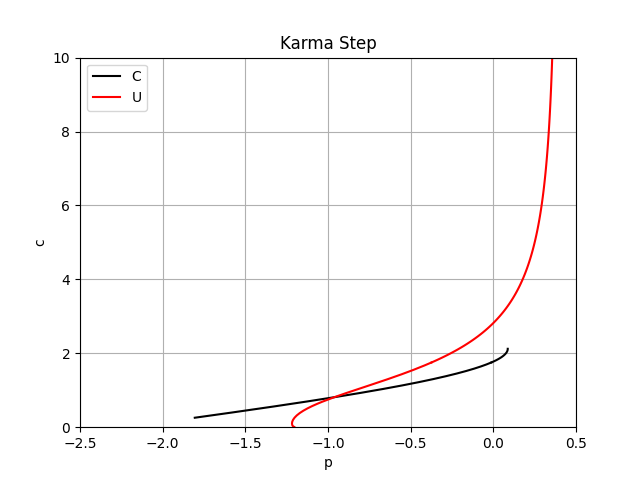
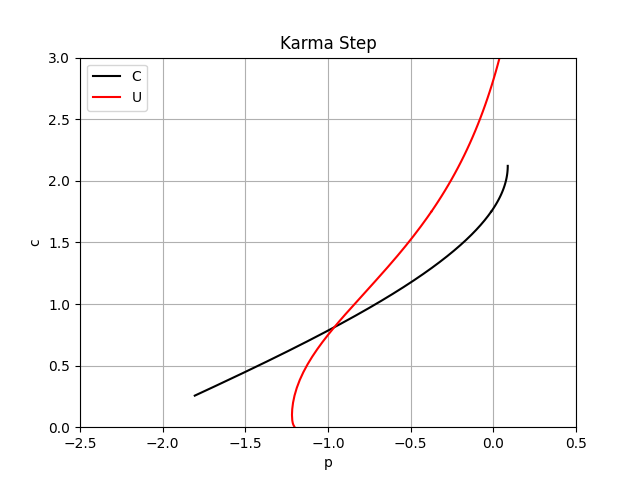
Zoomed in figured

diff --git a/Models/Karma_Ramp/Plotting.py b/Models/Karma_Ramp/Plotting.py
@@ -66,7 +66,7 @@ handles = [
 
 plt.legend(handles=handles,loc='upper left')
 
-plt.ylim(0,10)
+plt.ylim(0,3)
 plt.xlim(-2.5,0.5)
 
 plt.title("Karma Ramp")

diff --git a/Models/Karma_Step/Plotting.py b/Models/Karma_Step/Plotting.py
@@ -66,7 +66,7 @@ handles = [
 
 plt.legend(handles=handles,loc='upper left')
 
-plt.ylim(0,10)
+plt.ylim(0,3)
 plt.xlim(-2.5,0.5)
 
 plt.title("Karma Step")

diff --git a/Models/MorrisLecar/Plotting.py b/Models/MorrisLecar/Plotting.py
@@ -66,7 +66,7 @@ handles = [
 
 plt.legend(handles=handles,loc='upper left')
 
-plt.ylim(0,10)
+plt.ylim(0,3)
 plt.xlim(-25,20)
 
 plt.title("Morris-Lecar")
